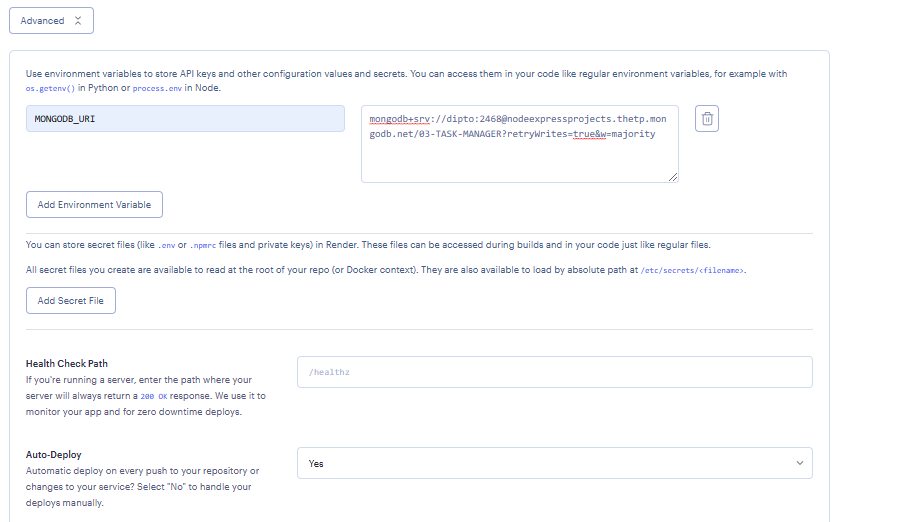
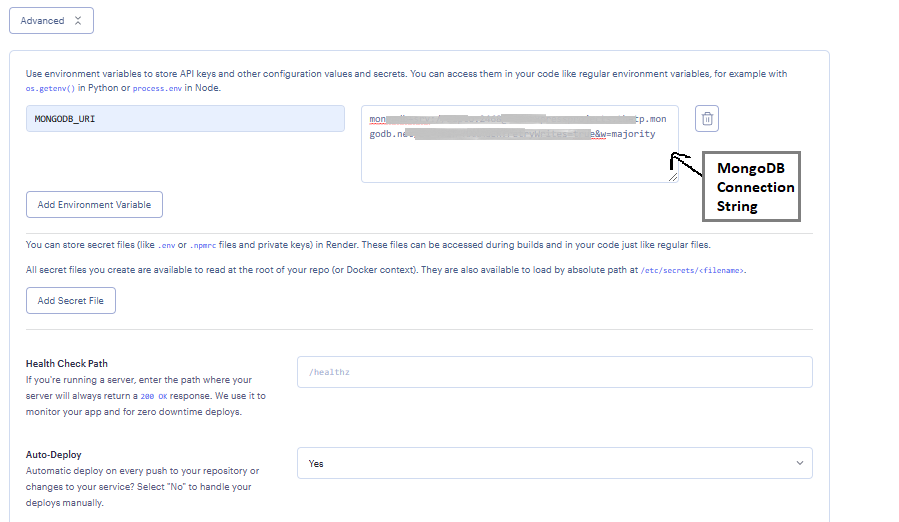
updated readme with some images

Changed region(s): [[0.7475, 0.2759, 0.9032, 0.4291], [0.4049, 0.2146, 0.7164, 0.2759]]

diff --git a/README.md b/README.md
@@ -22,7 +22,7 @@ Further information about Task Manager project is available in the [doc](https:/
 2. Click `New > Webservices`, at this point they will ask you to connect github or gitlab with render, connect them so that you can give the app access to your apps stored in git repository. Once render is connected to your github account you will see a list of git repositories shown at render. Such as: ![Git repo list shown in render](./READMEImages/render_gitrepolist.PNG)
 3. Now to deploy the app click on the `connect` button just beside your target apps git repository shown in the list of render website.
 4. Now fill up the fields accordingly, ![Initial app deployment settings](./READMEImages/render_appDeploy_settings.PNG)
-5. Click advance and then add environment variable related to database. ![Advance app deployment settings](./READMEImages/render_appdeploy_advSettings.PNG)
+5. Click advance and then add environment variable related to database. It is important to Add the environment variables. This project use mongodb, so add a config variable for mongodb connection string. `key = MONGODB_URI` and `value=your mongodb database connection string`. ![Advance app deployment settings](./READMEImages/render_appdeploy_advSettings.PNG)
 6. Lastly Click on Create Web Service, within few minutes app will be deployed and will generate a url. Click on the URL to visit your live app.
 
 ## (Heroku is not free anymore) To Deploy This project in Heroku, follow these steps,
